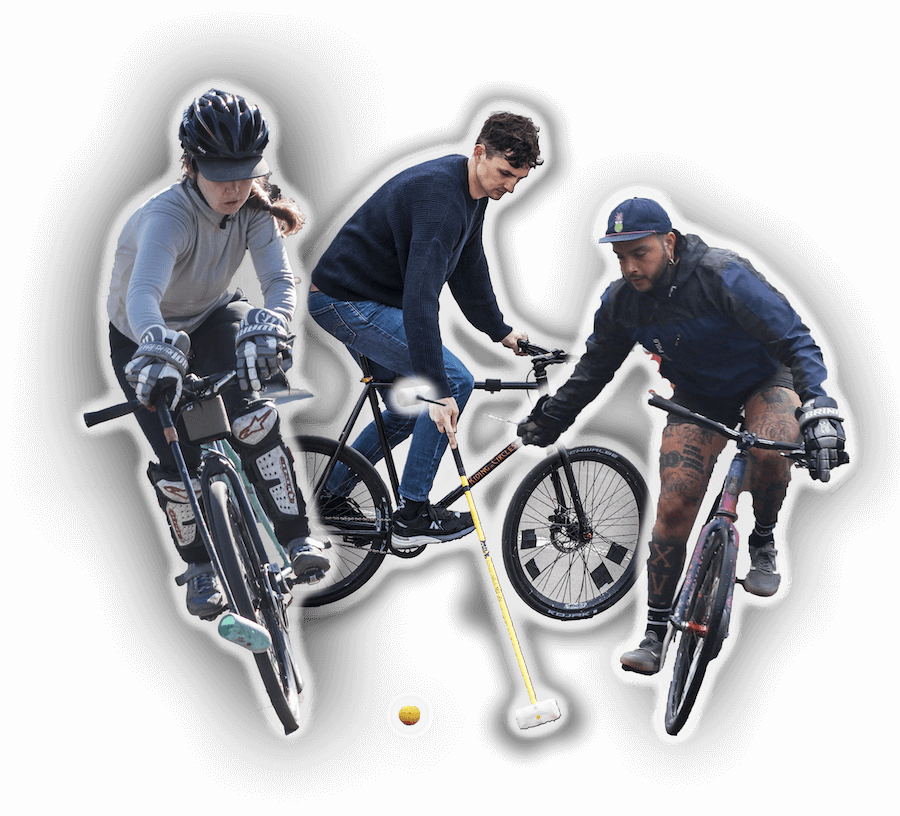
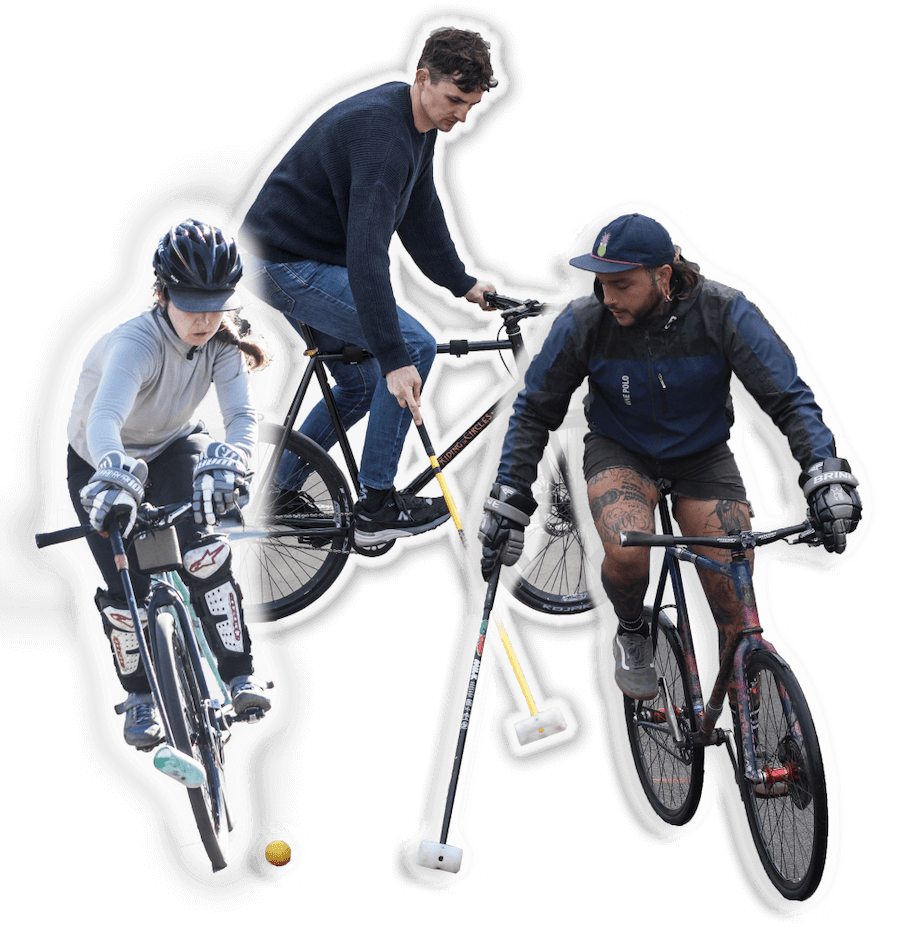
content, images, responsive

diff --git a/src/chapters/ChapterThree.jsx b/src/chapters/ChapterThree.jsx
@@ -3,6 +3,7 @@ import { Parallax } from 'react-scroll-parallax';
 import LazyLoad from 'react-lazyload';
 import ChapterTitle from '../components/ChapterTitle';
 import Spacer from '../components/Spacer';
+import Image from '../components/Image';
 import Iframe from '../components/Iframe';
 import FloatingImages from '../components/FloatingImages';
 import Stats from '../components/Stats';
@@ -34,31 +35,15 @@ const ChapterThree = () => {
       <div className="chapter-three-intro">
         <div className="position-relative">
           <div className="page-decoration page-decoration--is-left">
-            <LazyLoad once offset={500}>
-              <img src={ChapterThreeBg3} alt="" className="img-fluid" />
-            </LazyLoad>
-            <Parallax className="position-absolute parallax-item--first" y={["100px", "-100px"]} tagOuter="figure">
-              <LazyLoad once offset={500}>
-                <img src={ChapterThreeImg9} alt="" className="img-fluid" />
-              </LazyLoad>
-            </Parallax>
+            <Image src={ChapterThreeBg3} alt="" className="img-fluid"/>
+            <Image src={ChapterThreeImg9} alt="" className="img-fluid" y={["100px", "-100px"]} parallaxContainerClassName="position-absolute parallax-item--first"/>
           </div>
         </div>
         <div className="position-relative">
           <div className="page-decoration page-decoration--is-right">
-            <LazyLoad once offset={500}>
-              <img src={ChapterThreeBg3} alt="" className="img-fluid" />
-            </LazyLoad>
-            <Parallax className="position-absolute parallax-item--first" y={["100px", "-100px"]} tagOuter="figure">
-              <LazyLoad once offset={500}>
-                <img src={ChapterThreeImg8} alt="" className="img-fluid" />
-              </LazyLoad>
-            </Parallax>
-            <Parallax className="position-absolute parallax-item--second" y={["100px", "-100px"]} tagOuter="figure">
-              <LazyLoad once offset={500}>
-                <img src={ChapterThreeImg11} alt="" className="img-fluid" />
-              </LazyLoad>
-            </Parallax>
+            <Image src={ChapterThreeBg3} alt="" className="img-fluid"/>
+            <Image src={ChapterThreeImg8} alt="" className="img-fluid" y={["100px", "-100px"]} parallaxContainerClassName="position-absolute parallax-item--first"/>
+            <Image src={ChapterThreeImg11} alt="" className="img-fluid" y={["100px", "-100px"]} parallaxContainerClassName="position-absolute parallax-item--second"/>
           </div>
         </div>
       </div>

diff --git a/src/styles/App.scss b/src/styles/App.scss
@@ -527,9 +527,6 @@
   .chapter-three-intro {
     margin-bottom: 400px;
     .page-decoration {
-      & > .lazyload-wrapper > img {
-        max-width: 500px;
-      }
       &.page-decoration--is-right {
         & > .lazyload-wrapper > img {
           transform: scaleX(-1);
@@ -672,11 +669,26 @@
       }
     }
   }
+  .timeline__source-container {
+    position: absolute;
+    bottom: -220px;
+    right: 0;
+    color: $text-color;
+    p {
+      opacity: 0;
+      visibility: hidden;
+      transition: opacity 0.3s $easing;
+      &.is--active {
+        opacity: 1;
+        visibility: visible;
+      }
+    }
+  }
 }
 
 .chapter-title {
   position: relative;
-  height: 1080px;
+  height: 480px;
   background-position: center center;
   background-repeat: no-repeat;
   background-size: cover;
@@ -1122,6 +1134,7 @@
   background-color: $intro-bg;
   border-top: 1px solid darken($intro-bg, 8);
   transition: transform 0.3s $easing;
+  z-index: 3;
   &.alert--is-open {
     transform: translateY(0);
     & + .progress {
@@ -1310,6 +1323,9 @@
 }
 
 @include for-md-up {
+  .chapter-title {
+    height: 720px;
+  }
   .chapter-three {
     .page-decoration {
       &.page-decoration--is-left {
@@ -1448,6 +1464,7 @@
   }
 
   .chapter-title {
+    height: 1080px;
     .chapter-title__title {
       font-size: 124px;
     }
@@ -1476,7 +1493,7 @@
   .intro {
     .cover-section {
       &.cover-section--intro-first {
-        height: 1200px;
+        height: 877px;
       }
     }
   }
@@ -1490,6 +1507,15 @@
   .chapter-two {
     .chapter-two-transition {
       height: 1800px;
+    }
+  }
+  .chapter-three {
+    .chapter-three-intro {
+      .page-decoration {
+        & > .lazyload-wrapper > img {
+          max-width: 500px;
+        }
+      }
     }
   }
 }

diff --git a/src/components/Timeline.jsx b/src/components/Timeline.jsx
@@ -30,6 +30,7 @@ const Timeline = () => {
       title: "Envol français",
       content: "Arrivé en 1900, le polo-vélo connaît un franc succès à Paris vingt ans plus tard. En 1928, un premier championnat est organisé entre huit équipes. Quelques années plus tard, la discipline s’exporte hors de la capitale et séduit à l’échelle nationale, jusqu’à avoir sa première définition dans l’édition de 1932 du dictionnaire Larousse.",
       background: timelineBg3,
+      source: "Source : BNF",
     },
     {
       year: "1999",
@@ -64,7 +65,7 @@ const Timeline = () => {
           <div className={classNames("timeline__bg", {"timeline__bg--is-active": active === i})} style={{backgroundImage: `url(${timeline.background})`}} />
         </LazyLoad>
       ))}
-      <div className="container">
+      <div className="container position-relative">
         <div className="row">
           <div className="col-12 col-md-6 d-flex align-items-center justify-content-between">
             <div className="timeline__nav flex-md-column">
@@ -99,7 +100,13 @@ const Timeline = () => {
             </div>
           </div>
         </div>
+        <div className="timeline__source-container">
+          {timeline.map((timeline, i) => (
+            timeline.source && <p className={classNames({'is--active': active === i})} key={i}>{timeline.source}</p>
+          ))}
+        </div>
       </div>
+      
     </div>
   );
 };

diff --git a/src/chapters/ChapterTwo.jsx b/src/chapters/ChapterTwo.jsx
@@ -107,16 +107,16 @@ const ChapterTwo = () => {
             <Spacer size="medium"/>
             <figure className="team-logos">
               <div className="d-flex flex-row align-items-center justify-content-center">
-                <LazyLoad once offset={500}>
+                <LazyLoad once offset={500} className="mx-3">
                   <img src={ChapterTwoImg4} alt="Chapitre 2" className="img-fluid" />
                 </LazyLoad>
-                <LazyLoad once offset={500}>
+                <LazyLoad once offset={500} className="mx-3">
                   <img src={ChapterTwoImg5} alt="Chapitre 2" className="img-fluid" />
                 </LazyLoad>
-                <LazyLoad once offset={500}>
+                <LazyLoad once offset={500} className="mx-3">
                   <img src={ChapterTwoImg6} alt="Chapitre 2" className="img-fluid" />
                 </LazyLoad>
-                <LazyLoad once offset={500}>
+                <LazyLoad once offset={500} className="mx-3">
                   <img src={ChapterTwoImg7} alt="Chapitre 2" className="img-fluid" />
                 </LazyLoad>
               </div>

diff --git a/src/components/Image.jsx b/src/components/Image.jsx
@@ -1,0 +1,29 @@
+import React, { useCallback } from 'react';
+import LazyLoad from 'react-lazyload';
+import { useController, Parallax } from 'react-scroll-parallax';
+
+const ConditionalWrapper = ({ condition, wrapper, children }) => 
+  condition ? wrapper(children) : children;
+
+const Image = ({x = undefined, y = undefined, src, alt, style, className, tagOuter = "figure", figcaption, parallaxContainerClassName}) => {
+  const { parallaxController } = useController();
+  const handleLoad = useCallback(() => {
+    console.log('handleLoad')
+    parallaxController.update();
+  }, [parallaxController]);
+  return (
+    <ConditionalWrapper
+      condition={y || x}
+      wrapper={children => <Parallax y={y} x={x} tagOuter={tagOuter} className={parallaxContainerClassName}>{children}</Parallax>}
+    >
+      <LazyLoad once offset={500}>
+        <img src={src} alt={alt} className={className} onLoad={handleLoad} style={style}/>
+      </LazyLoad>
+      {figcaption &&
+        <figcaption>{figcaption}</figcaption>
+      }
+    </ConditionalWrapper>
+  );
+};
+
+export default Image;

diff --git a/src/App.js b/src/App.js
@@ -117,6 +117,14 @@ const App = () => {
           cta="Mettre à jour"
           onClick={handleUpdateServiceWorkerClick}
         />
+        {/* <Alert
+          open={true}
+          content="Update parallax controller"
+          cta="Update"
+          onClick={() => {
+            parallaxController.update();
+          }}
+        /> */}
         <Progress progress={scrollPercentage}/>
         <BackToTop offset={window.innerHeight}/>
       </StateContext.Provider>

diff --git a/src/chapters/Intro.jsx b/src/chapters/Intro.jsx
@@ -3,7 +3,6 @@ import { Parallax } from 'react-scroll-parallax';
 import LazyLoad from 'react-lazyload';
 import Spacer from '../components/Spacer';
 import Timeline from '../components/Timeline';
-import introImg1 from '../assets/intro-1.png';
 import introImg2 from '../assets/intro-2.png';
 import introImg3 from '../assets/intro-3.png';
 import introCircle1 from '../assets/intro-circle-1.png';

diff --git a/src/components/Stats.jsx b/src/components/Stats.jsx
@@ -1,7 +1,6 @@
 import React, { useState, useCallback } from 'react';
 import classNames from 'classnames';
 import LazyLoad from 'react-lazyload';
-import Iframe from './Iframe';
 
 const stats = [
   {
